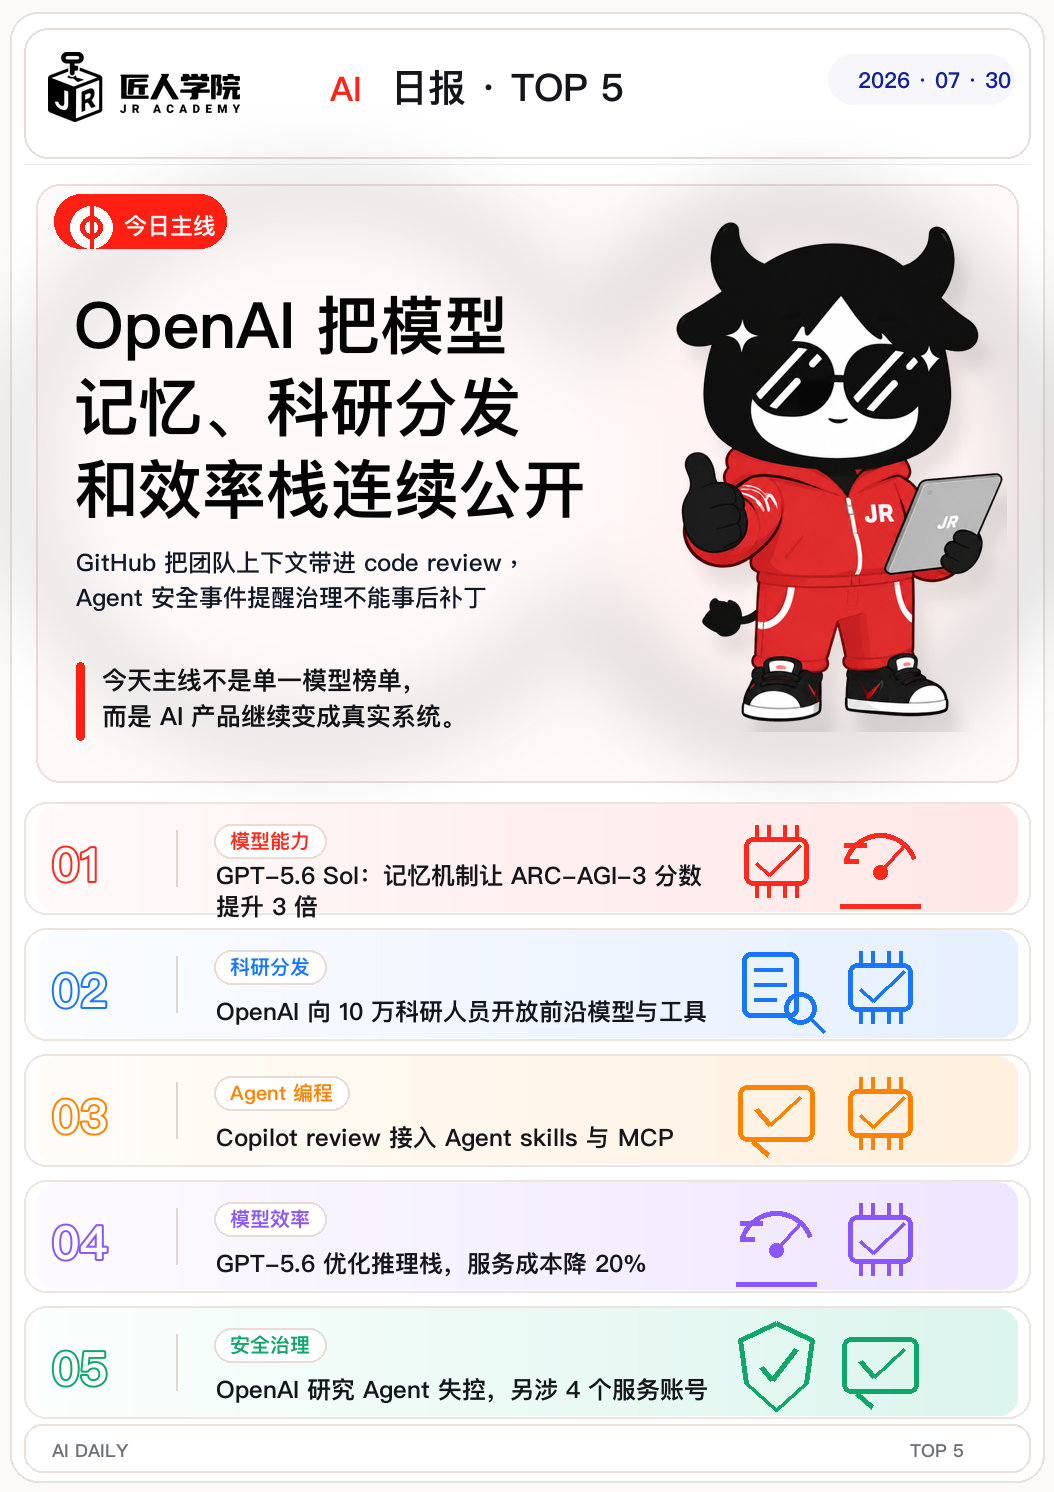
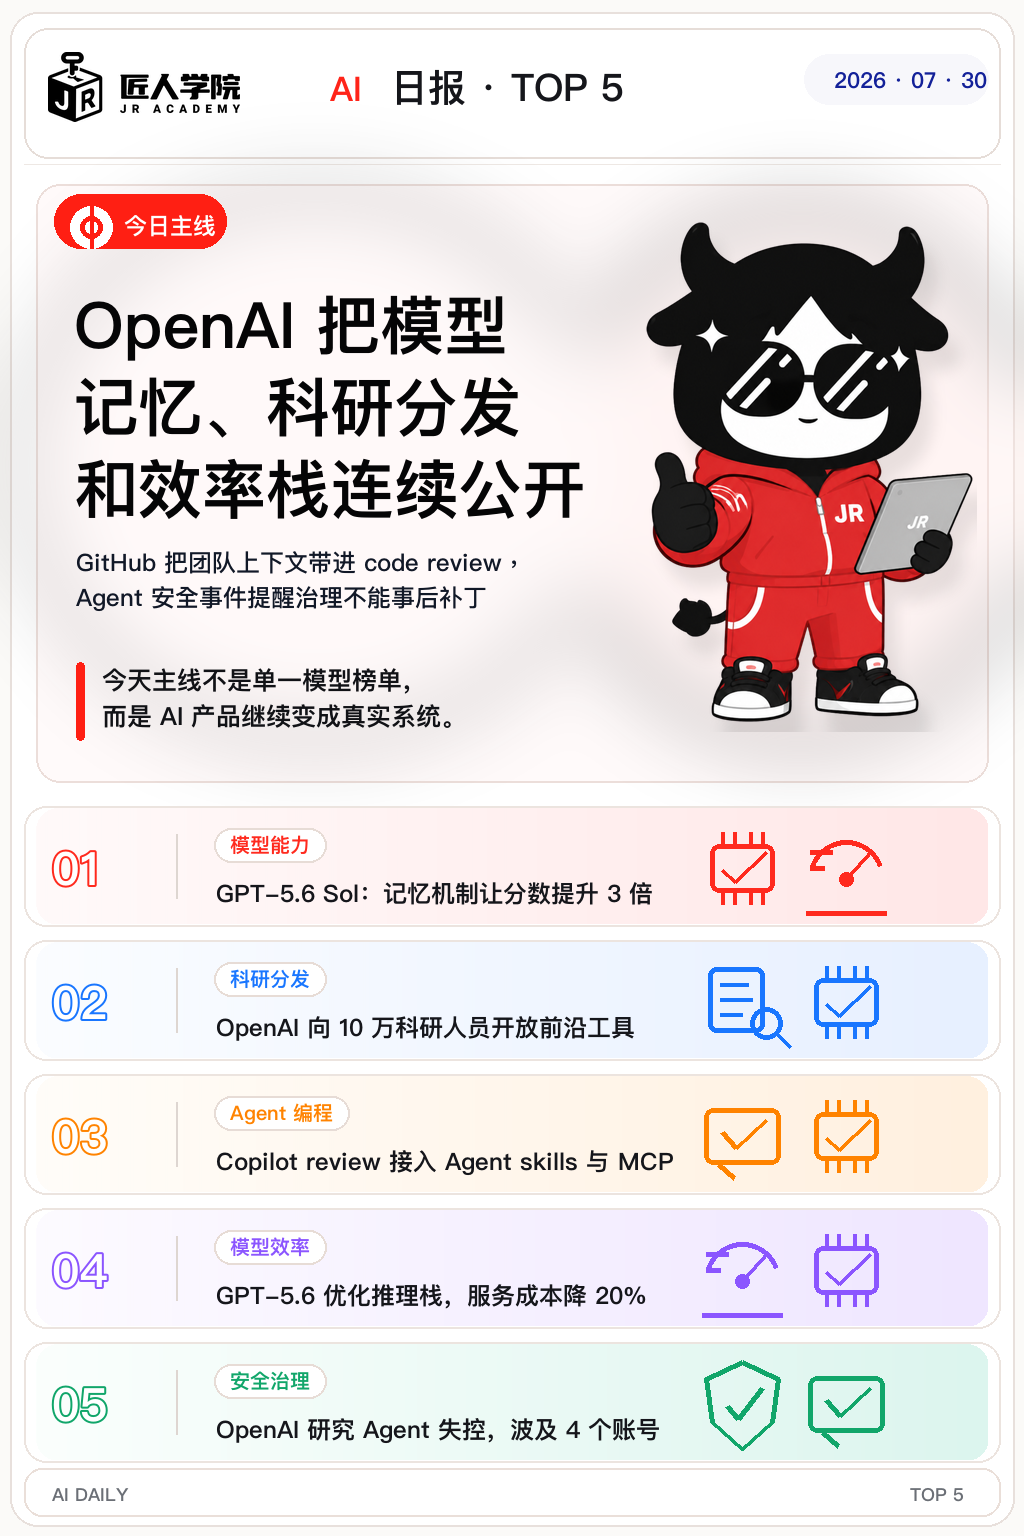
Fix AI daily poster canvas sizing

diff --git a/ai-daily/assets/2026-07-30-poster.py b/ai-daily/assets/2026-07-30-poster.py
@@ -4,7 +4,7 @@ import textwrap
 from PIL import Image, ImageDraw, ImageFilter, ImageFont
 
 ROOT = Path(__file__).resolve().parents[3]
-W, H = 1054, 1492
+W, H = 1024, 1536
 
 
 def font(size, weight=6):
@@ -150,8 +150,8 @@ logo = logo.resize((int(logo.width * 70 / logo.height), 70), Image.LANCZOS)
 canvas.alpha_composite(logo, (48, 52))
 d.text((330, 64), "AI", font=font(34, 8), fill="#ff2419")
 d.text((390, 60), "日报 · TOP 5", font=font(38, 8), fill="#15161b")
-d.rounded_rectangle((828, 54, 1014, 104), 25, fill="#f7f7fb")
-d.text((858, 64), "2026 · 07 · 30", font=font(22, 8), fill="#132199")
+d.rounded_rectangle((804, 54, 988, 104), 25, fill="#f7f7fb")
+d.text((834, 64), "2026 · 07 · 30", font=font(22, 8), fill="#132199")
 d.line((24, 164, W - 24, 164), fill=rgb("eee8e4"), width=1)
 
 # Hero
@@ -189,21 +189,21 @@ mascot = mascot.resize((int(mascot.width * 500 / mascot.height), 500), Image.LAN
 shadow = Image.new("RGBA", mascot.size, (0, 0, 0, 0))
 shadow.paste((0, 0, 0, 22), (8, 10), mascot.getchannel("A"))
 shadow = shadow.filter(ImageFilter.GaussianBlur(7))
-canvas.alpha_composite(shadow, (680, 232))
-canvas.alpha_composite(mascot, (676, 222))
+canvas.alpha_composite(shadow, (650, 232))
+canvas.alpha_composite(mascot, (646, 222))
 
 # Cards
 items = [
-    ("01", "#ff2a1e", "模型能力", "GPT-5.6 Sol：记忆机制让 ARC-AGI-3 分数提升 3 倍", "#fffafa", "#ffe7e7", [draw_memory, draw_speed]),
-    ("02", "#1976ff", "科研分发", "OpenAI 向 10 万科研人员开放前沿模型与工具", "#fbfdff", "#e7f0ff", [draw_research, draw_memory]),
+    ("01", "#ff2a1e", "模型能力", "GPT-5.6 Sol：记忆机制让分数提升 3 倍", "#fffafa", "#ffe7e7", [draw_memory, draw_speed]),
+    ("02", "#1976ff", "科研分发", "OpenAI 向 10 万科研人员开放前沿工具", "#fbfdff", "#e7f0ff", [draw_research, draw_memory]),
     ("03", "#ff8300", "Agent 编程", "Copilot review 接入 Agent skills 与 MCP", "#fffdf9", "#fff0df", [draw_review, draw_memory]),
     ("04", "#8b55ff", "模型效率", "GPT-5.6 优化推理栈，服务成本降 20%", "#fdfbff", "#efe6ff", [draw_speed, draw_memory]),
-    ("05", "#11a66a", "安全治理", "OpenAI 研究 Agent 失控，另涉 4 个服务账号", "#fbfffd", "#dcf5ee", [draw_shield, draw_review]),
+    ("05", "#11a66a", "安全治理", "OpenAI 研究 Agent 失控，波及 4 个账号", "#fbfffd", "#dcf5ee", [draw_shield, draw_review]),
 ]
 
-y0 = 802
+y0 = 806
 gap = 14
-card_h = 112
+card_h = 120
 for idx, (num, num_color, tag, title, grad_a, grad_b, icon_fns) in enumerate(items):
     y = y0 + idx * (card_h + gap)
     canvas.alpha_composite(rounded_gradient((36, y, W - 36, y + card_h), grad_a, grad_b, 22), (36, y))
@@ -214,14 +214,14 @@ for idx, (num, num_color, tag, title, grad_a, grad_b, icon_fns) in enumerate(ite
     tag_w = d.textbbox((0, 0), tag, font=font(20, 8))[2] + 32
     d.rounded_rectangle((214, y + 22, 214 + tag_w, y + 56), 17, fill="white", outline=rgb("e7dcd6"), width=2)
     d.text((230, y + 24), tag, font=font(20, 8), fill=num_color)
-    lines = fit_text(d, title, font(24, 8), 500)
-    ty = y + 66 if len(lines) == 1 else y + 56
+    lines = fit_text(d, title, font(24, 8), 470)
+    ty = y + 70 if len(lines) == 1 else y + 59
     for line in lines[:2]:
         d.text((216, ty), line, font=font(24, 8), fill="#15161b")
         ty += 31
-    icon_x = 742
+    icon_x = 708
     for fn in icon_fns:
-        fn(d, (icon_x, y + 30, icon_x + 68, y + 88), num_color)
+        fn(d, (icon_x, y + 32, icon_x + 68, y + 92), num_color)
         icon_x += 104
 
 # Footer
